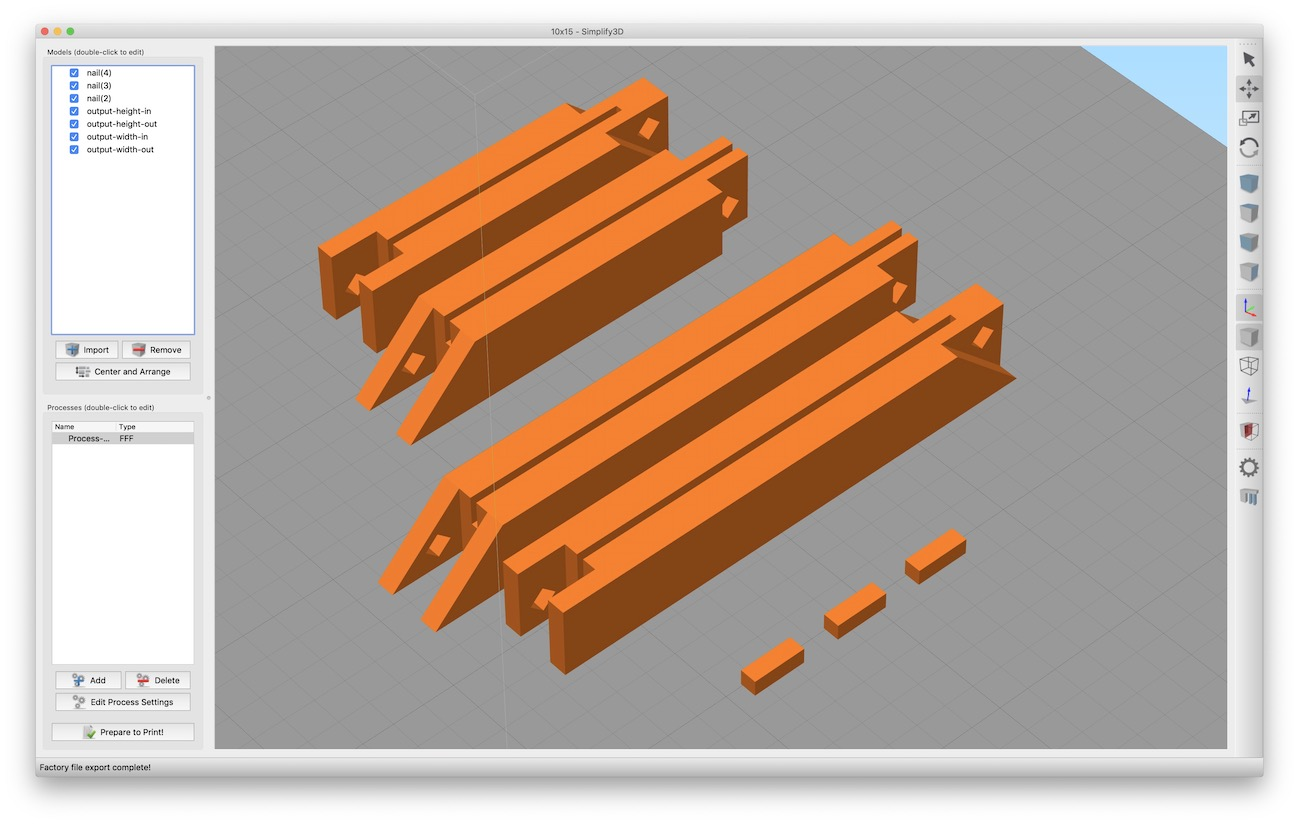
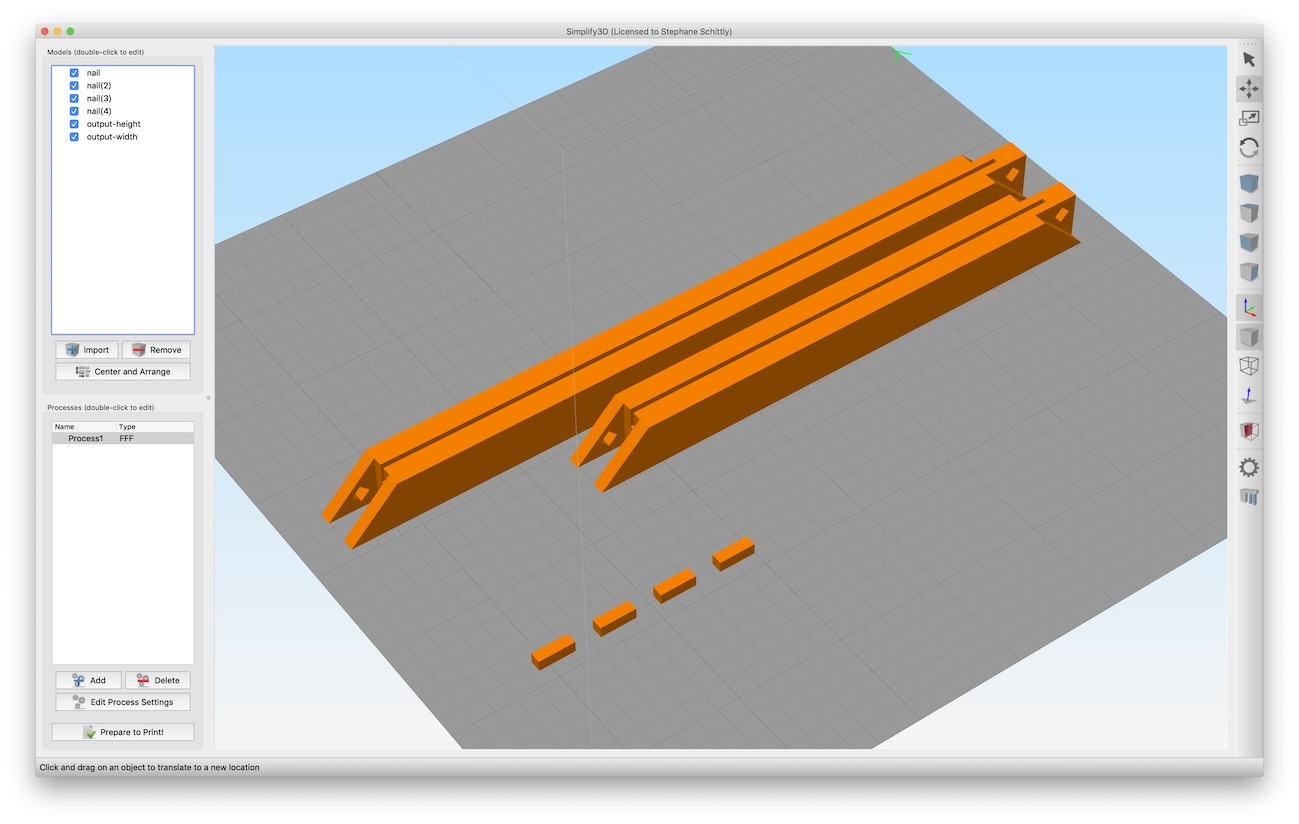
cleaning

diff --git a/index.html b/index.html
@@ -9,10 +9,19 @@
     </style>
 </head>
 <h1>Customizable picture frame</h1>
-<p>Enter the dimensions of the picture in centimeters. There's a 5mm margin all around (on the inside of the frame). You can use one decimal (so by increments of 0.1cm).</p>
+<p>Enter the dimensions of the picture in centimeters.
+    <br/>There's a 5mm margin all around (on the inside of the frame) included.
+    <br/>It's recommended to use a maximum of one decimal (so by increments of 0.1cm).
+    <br/>The maximum size is based on the print bed size: you can generate a frame in 4 parts if the length doesn't
+    exceed the print bed size (at 45 degrees), otherwise parts will be split in half (so 8 parts in total).
+</p>
 <form action="resizeObjWeb.php" method="post">
-    width : <input type="text" name="width"><br>
-    height: <input type="text" name="height"><br>
+    width : <input type="text" name="width" value="10"><br>
+    height: <input type="text" name="height" value="15"><br>
+    <br>
+    <p>Enter the dimensions of your printer print bed in cm.</p>
+    width : <input type="text" name="printerWidth" value="20"><br>
+    height: <input type="text" name="printerHeight" value="20"><br>
     <br><br>
     <input type="submit" value="Generate frame">
 </form>
@@ -21,29 +30,47 @@
 <p>
 <ul>
     <li>A ZIP file will be created, it contains 4 pieces generated to your dimensions and a file for the nail.
-    </li><br>
-    <li>Add the 4 pieces in your slicer software. Duplicate the nail 3 times.</li><br>
+    </li>
+    <br>
+    <li>Add the 4 pieces in your slicer software. Duplicate the nail 3 times.</li>
+    <br>
     <li>Simplify3D will show an alert about the scale of the nail being wrong, you can ignore it (do not resize).
-        <br>If you need to change the size of the nail manually, it's a rectangle with a length of 9mm and a side of 2.7mm</li><br>
-    <li>This print requires a layer height of 0.2mm or less</li><br>
-    <li>You can print it as hollow as 8%, below that prints might fail.</li><br>
-    <li>Use 5 top and bottom layers, and 5 perimeter shells</li><br>
+        <br>If you need to change the size of the nail manually, it's a rectangle with a length of 9mm and a side of
+        2.7mm
+    </li>
+    <br>
+    <li>This print requires a layer height of 0.2mm or less</li>
+    <br>
+    <li>You can print it as hollow as 8%, below that prints might fail.</li>
+    <br>
+    <li>Use 5 top and bottom layers, and 5 perimeter shells</li>
+    <br>
     <li>Temperature is quite important here as the tolerances are very small.
-        <br>Overheating the filament / bed will result in distortion, and pieces might not fit corrrectly.
+        <br>Overheating the filament / bed will result in distortion, and pieces might not fit correctly.
         <br>I get good results when using PLA at 190C with hairspray on glass (without bed heating).
-    </li><br>
-    <li>Print this set twice.</li><br>
-    <li>When removing the pieces from the bed, lift them from their square side (the angled corners are more fragile).
-    </li><br>
+    </li>
+    <br>
+    <li>Print this set twice.</li>
+    <br>
+    <li>When removing the pieces from the bed, lift them from their square side (angled corners are more fragile).
+    </li>
+    <br>
+    <li>Depending on the material, it might be better to glue the parts, or not use the nails at all.
+    </li>
+    <br>
     <li>Make sure you have the assembly ready before adding the nails. Once put in place, you won't be able to remove
         them.
     </li>
 </ul>
 <p>
     <br><br>
-<i>This is how the parts for a half frame should look like:</i>
+    <i>This is how the parts for a half frame should look like for 4 parts (smaller than the print bed):</i>
 </p>
 <img src="pic1.jpg"/>
+<p>
+    <br><br>
+    <i>This is how the parts for a half frame should look like for 8 parts (larger than the print bed):</i>
 </p>
+<img src="pic2.jpg"/>
 </body>
 </html>

diff --git a/resizeObjWeb.php b/resizeObjWeb.php
@@ -10,22 +10,36 @@
 <body>
 <p>
     <?php
-    /**
-     * Created by PhpStorm.
-     * User: stef
-     * Date: 2019-03-03
-     * Time: 22:12
-     * Compares two obj files and tries to resize based on the differences in values
-     */
     include_once("resizeObjScript.php");
-    $width = $_POST['width']; //width in millimeters
-    $height = $_POST['height']; //height in millimeters
-    echo "<h1>$width" ."cm x " . $height. "cm picture frame</h1>";
+    $width = $_POST['width']; //width in centimeters
+    $height = $_POST['height']; //height in centimeters
+    $widthPrinter = $_POST['printerWidth']; //width in centimeters
+    $heightPrinter = $_POST['printerHeight']; //height in centimeters
+    if (!is_numeric($width) || !is_numeric($height) || !is_numeric($widthPrinter) || !is_numeric($heightPrinter)) {
+        echo "<p>Values incorrect. Please use numerical values only</p>";
+        echo "<br><a href='index.html'>Go back</a>";
+        die;
+    }
+    $hypotenuse = round(hypot($widthPrinter, $heightPrinter), 1) - 1;
+    echo "<h1>$width cm x $height cm picture frame, $widthPrinter cm x $heightPrinter cm print bed, $hypotenuse</h1>";
+    $doubleHypotenuse = $hypotenuse * 2;
+    if ($width > $doubleHypotenuse || $height > $doubleHypotenuse) {
+        echo "<p>Values are too big. Please use a maximum of $doubleHypotenuse cm for both width and height for a frame in 8 parts, or $hypotenuse cm for a frame in 4 parts.</p>";
+        echo "<br><br><a href='index.html'>Go back</a>";
+        die;
+    }
+    if ($width < 4 || $height < 4) {
+        echo "<p>Values are too small. Please use a minimum of 4cm for both width and height</p>";
+        echo "<br><br><a href='index.html'>Go back</a>";
+        die;
+    }
+    $useTwoPartsWidth =  $width > $hypotenuse;
+    $useTwoPartsHeight = $height > $hypotenuse;
     $zipFilename = "picture-frame-$width" . "x$height.zip";
     $zipFilenameReverse = "picture-frame-$height" . "x$width.zip";
     if (file_exists($zipFilename) || file_exists($zipFilenameReverse)) {
         echo "Files already generated.<br>";
-        if(!file_exists($zipFilename) && file_exists($zipFilenameReverse)) {
+        if (!file_exists($zipFilename) && file_exists($zipFilenameReverse)) {
             echo "<br><a href='$zipFilenameReverse'>Download all files</a>";
         } else {
             echo "<br><a href='$zipFilename'>Download all files</a>";
@@ -33,22 +47,35 @@
     } else {
         $originalModelWidth = 1.7; //paper cut size in model in cm (1.2cm cube + 5mm margin inside corner)
         echo "Resizing picture frame : width: $width cm, height: $height cm...\n";
-        $file1 = "output-width-out.obj";
-        $file2 = "output-width-in.obj";
-        $file3 = "output-height-out.obj";
-        $file4 = "output-height-in.obj";
-        $file4 = "output-height-in.obj";
+        if ($useTwoPartsWidth) {
+            $file1 = "output-width-out.obj";
+            $file2 = "output-width-in.obj";
+            parseAndSave(0, $width / 2, $originalModelWidth, $file1, false);
+            parseAndSave(1, $width / 2, $originalModelWidth, $file2, false);
+        } else {
+            $file1 = "output-width.obj";
+            parseAndSave(0, $width, $originalModelWidth, $file1, true);
+        }
+        if ($useTwoPartsHeight) {
+            $file3 = "output-height-out.obj";
+            $file4 = "output-height-in.obj";
+            parseAndSave(0, $height / 2, $originalModelWidth, $file3, false);
+            parseAndSave(1, $height / 2, $originalModelWidth, $file4, false);
+        } else {
+            $file3 = "output-height.obj";
+            parseAndSave(0, $height, $originalModelWidth, $file3, true);
+        }
         $file5 = "nail.obj";
-        parseAndSave(0, $width / 2, $originalModelWidth, $file1);
-        parseAndSave(1, $width / 2, $originalModelWidth, $file2);
-        parseAndSave(0, $height / 2, $originalModelWidth, $file3);
-        parseAndSave(1, $height / 2, $originalModelWidth, $file4);
         $zip = new ZipArchive;
         if ($zip->open($zipFilename, ZipArchive::CREATE) === TRUE) {
             $zip->addFile($file1);
-            $zip->addFile($file2);
+            if ($useTwoPartsWidth) {
+                $zip->addFile($file2);
+            }
             $zip->addFile($file3);
-            $zip->addFile($file4);
+            if ($useTwoPartsWidth) {
+                $zip->addFile($file4);
+            }
             $zip->addFile($file5);
             $zip->close();
         }

diff --git a/resizeObjScript.php b/resizeObjScript.php
@@ -6,7 +6,7 @@
  * Time: 22:12
  * Compares two obj files and tries to resize based on the differences in values
  */
-function parseAndSave($in, $width, $originalModelWidth, $file)
+function parseAndSave($in, $width, $originalModelWidth, $file, $useSingle)
 {
     $lines = [];
     $vLinesNumbers = [];
@@ -14,14 +14,17 @@ function parseAndSave($in, $width, $originalModelWidth, $file)
     $twoCmValues = [];
     $resizedLines = [];
     $lineIndex = 1;
-    if ($in) {
-        /*$firstFile = "base-in-0cm.obj";
-        $secondFile = "base-in-1cm.obj";*/
+    if ($useSingle) {
         $firstFile = "model-single-0cm.obj";
         $secondFile = "model-single-1cm.obj";
     } else {
-        $firstFile = "base-out-0cm.obj";
-        $secondFile = "base-out-1cm.obj";
+        if ($in) {
+            $firstFile = "base-in-0cm.obj";
+            $secondFile = "base-in-1cm.obj";
+        } else {
+            $firstFile = "base-out-0cm.obj";
+            $secondFile = "base-out-1cm.obj";
+        }
     }
     // parsing first file
     $handle = fopen($firstFile, "r");
@@ -59,7 +62,6 @@ function parseAndSave($in, $width, $originalModelWidth, $file)
         echo "ERROR WHILE PARSING FILE";
     }
     //moving vertices
-
     for ($i = 0; $i < sizeof($oneCmValues); $i++) {
         $oneValue = $oneCmValues[$i];
         $oneValues = preg_split("/ +/", $oneValue);
@@ -90,6 +92,6 @@ function parseAndSave($in, $width, $originalModelWidth, $file)
         array_push($finalArray, $str);
     }
     file_put_contents($file, implode("\n", $finalArray));
-    echo "<br/>Resizing picture frame : done, saved in $file\n";
+    echo "<br/>Resizing model done, saved in $file\n";
 }
 

diff --git a/resizeObjLocal.php b/resizeObjLocal.php
@@ -19,5 +19,5 @@ parseAndSave(1, $width / 2, $originalModelWidth, "output-width-in.obj");
 parseAndSave(0, $height / 2, $originalModelWidth, "output-height-out.obj");
 parseAndSave(1, $height / 2, $originalModelWidth, "output-height-in.obj");*/
 //TODO: send max printing dimensions here and apply hypothenuse to check if we need half parts or singles
-parseAndSave(1, $width, $originalSingleModelWidth , "output-width.obj");
-parseAndSave(1, $height, $originalSingleModelWidth, "output-height.obj");
+parseAndSave(1, $width, $originalSingleModelWidth , "output-width.obj", true);
+parseAndSave(1, $height, $originalSingleModelWidth, "output-height.obj", true);

diff --git a/README.md b/README.md
@@ -16,9 +16,6 @@ Export from blender
 - Remember to flatten models before exporting!
 - Selection only / Apply modifiers / Write normals / Triangulate faces
 
-
-Development status
----
-- model-2cm.blend is not yet ready for custom resizing, only model-1cm is.
-
 ![](pic1.jpg)
+
+![](pic2.jpg)
